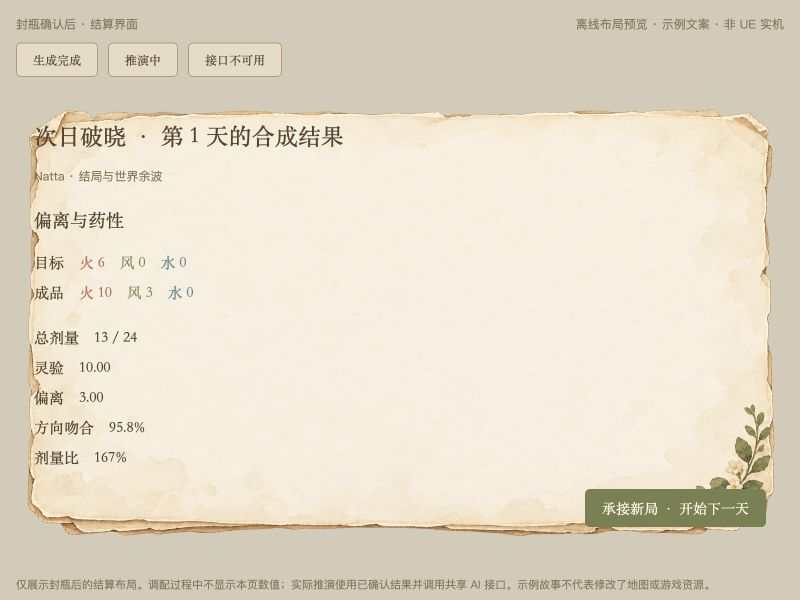
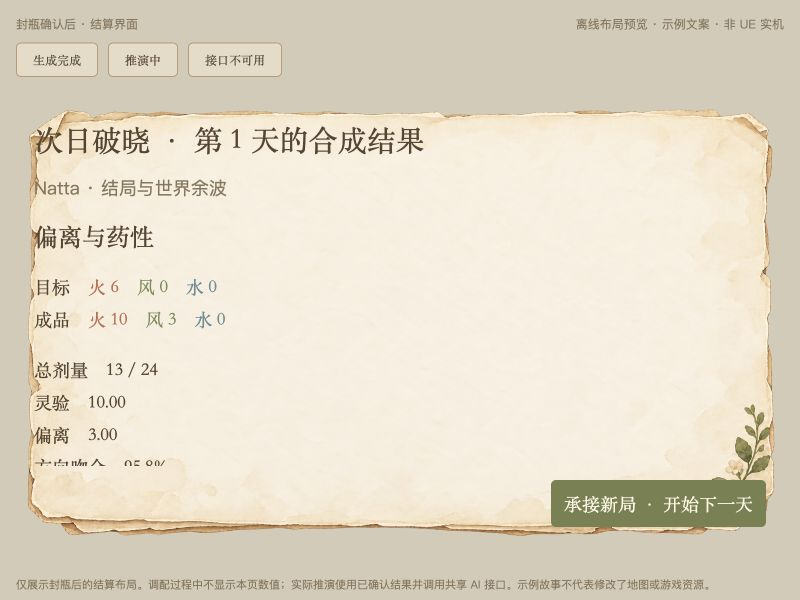
fix: increase alchemy body text and button font sizes

Changed region(s): [[0.0312, 0.21, 0.5312, 0.78], [0.6875, 0.78, 0.9375, 0.9], [0.25, 0.51, 0.2812, 0.54]]

diff --git a/Docs/Daily_Arcana_Brewing_Preview.html b/Docs/Daily_Arcana_Brewing_Preview.html
@@ -3,4 +3,7 @@
 
 main{width:100%;max-width:1180px}.paper.brew{width:100%;max-width:1180px;height:min(780px,calc(100dvh - 48px));min-height:0;padding:28px 32px}.brew .topline,.brew .tools,.brew .foot{flex-wrap:wrap}.brew .columns{grid-template-columns:minmax(0,32fr) minmax(0,35fr) minmax(0,33fr)}.brew .column{min-width:0}.brew .rail{flex-shrink:0}.brew .title{gap:12px;flex-wrap:wrap}.brew .foot{flex-shrink:0}.brew .title h1{font-size:22px}.brew .foot small{flex-basis:100%}.brew .columns{overflow:auto}.brew .column{overflow:visible}.brew .topline{flex-shrink:0}.brew .tools{flex-shrink:0}
 @media(max-width:931px){.paper.brew{padding:16px 18px}.brew .columns{display:block}.brew .column{border:0;padding:0;margin:0 0 18px}.brew .columns .out{order:-1}.brew .title h1{font-size:18px}}
-.brew-scroll{flex:1;min-height:0;overflow:auto}.brew .columns{flex:none;overflow:visible}.brew .foot{margin-top:10px}</style><main><header class="note"><span>背包 · 新增今日大牌栏</span><span>离线布局预览 · 非 UE 实机</span></header><section class="paper bag"><div class="title"><h1>背包</h1><small>B / Esc 关闭</small></div><div class="tabs"><button>元素小物</button><button class="active">今日大牌 · 第1天（3）</button></div><div class="bagbody"><div class="cards"><article class="major selected"><span class="roman">IV</span><b>皇帝</b><p>火 ×2</p><small>额度 1</small></article><article class="major"><span class="roman">XV</span><b>恶魔</b><p>下一项取逆</p><small>额度 1</small></article><article class="major"><span class="roman">XVII</span><b>星</b><p>风 ×2</p><small>额度 1</small></article></div><div class="detail"><h2>IV · 皇帝</h2><div class="muted">今日大牌 · 第1天<br>额度开销：1</div><p>火轴 ×2，逆运算时为 ÷2。</p><p class="muted">只在今日可用。夜晚放入合成台，按排列顺序改变药性。</p></div></div><small>拿起小屋药瓶，每瓶每天可抽取一张大牌。抽牌不经过 AI。</small></section><div class="legend">夜间合成台 · 素材、大牌、调配顺序、委托与结果 · 不显示三维坐标轴</div><section class="paper brew"><div class="title"><h1>夜间合成台 · 第1天</h1><span class="badge">今晚额度　4 / 5</span></div><div class="brew-scroll"><div class="muted">元素小物相加 · 大牌按顺序变换药性 · 副锅独立调配</div><div class="topline"><button class="primary">Natta · 铁匠</button><button>Fawnia · 传信人</button><button>森林女巫 · 小说家</button></div><div class="rail"><div class="slot"><small>01 · 元素小物</small><strong>炉火纽扣 · 火5</strong><small>投入火元素 5 点 · 免费</small></div><div class="slot selected"><small>02 · 今日大牌</small><strong>IV · 皇帝</strong><small>火 ×2 · 额度 1</small></div><div class="slot"><small>03 · 元素小物</small><strong>没有舌头的铜铃 · 风3</strong><small>投入风元素 3 点 · 免费</small></div></div><div class="tools"><button>← 前移</button><button>后移 →</button><button>移除所选</button><button>清空</button></div><div class="columns"><section class="column"><h2>元素小物 · 来自背包</h2><button class="choice">炉火纽扣 · 火5<small>黄铜边缘始终温热 · 额度0</small></button><button class="choice">没有舌头的铜铃 · 风3<small>风经过时会响起铃音 · 额度0</small></button><button class="choice">装着小雨的瓶子 · 水6<small>瓶壁上滑过刚落下的雨 · 额度0</small></button></section><section class="column"><h2>今日大牌 · 来自药瓶</h2><button class="choice">IV · 皇帝　额度1<small>火轴 ×2，逆为 ÷2</small></button><button class="choice">XV · 恶魔　额度1<small>紧邻的下一项取逆运算</small></button><button class="choice">XVII · 星　额度1<small>风轴 ×2，逆为 ÷2</small></button><div class="muted">下方保留原型的四张通用修饰牌</div></section><section class="column out"><h2>今晚的委托</h2><p>“我要的东西能把那种冷石头喂熟。就要火。别的什么都不要。”</p><p class="muted">目标：火6 · 风0 · 水0<br>调配槽位：3</p><p class="muted">确认封瓶后，另页显示偏离结果与次日推演。</p></section></div></div><footer class="foot"><small>放入、移除和调序不扣料；封瓶会另做一次确认。</small><button>收起 · Esc</button><button class="primary">封瓶交付</button></footer></section><p class="caption">截图展示两个界面的示例状态，人物、卡牌和数值仅供排版查看，不是游戏存档或运行验收。实际界面由 Slate 实现，均会按可用窗口尺寸缩小。<br>大牌保留卡牌形态；牌面插画尚未加入。夜间面板由与坩埚交互进入，本批未修改天空光照或新增真实时间计时。</p></main><script>for(const p of document.querySelectorAll('.paper.bag')){let h=document.createElement('div');h.className='scale';h.style.maxWidth=(p.classList.contains('bag')?940:1180)+'px';p.before(h);h.append(p)}function fit(){for(const h of document.querySelectorAll('.scale')){const p=h.firstChild,w=p.classList.contains('bag')?940:1180,d=p.classList.contains('bag')?480:780,s=Math.min(1,h.clientWidth/w);p.style.transform='scale('+s+')';h.style.height=d*s+'px'}}new ResizeObserver(fit).observe(document.querySelector('main'));addEventListener('resize',fit);fit()</script></html>
+.brew-scroll{flex:1;min-height:0;overflow:auto}.brew .columns{flex:none;overflow:visible}.brew .foot{margin-top:10px}
+.brew .title h1{font-size:27px}.brew h2{font-size:24px}.brew button{font-size:18px}.brew .choice,.brew .out p{font-size:18px}.brew .muted,.brew small,.brew .choice small,.brew .slot small{font-size:18px}.brew .slot strong{font-size:20px}.brew .slot{overflow:auto}.brew .foot button{padding:10px 12px}.brew .badge{font-size:18px}.brew .slot{min-height:150px}.brew .rail{min-height:166px}
+@media(max-width:931px){.brew .title h1{font-size:22px}}
+</style><main><header class="note"><span>背包 · 新增今日大牌栏</span><span>离线布局预览 · 非 UE 实机</span></header><section class="paper bag"><div class="title"><h1>背包</h1><small>B / Esc 关闭</small></div><div class="tabs"><button>元素小物</button><button class="active">今日大牌 · 第1天（3）</button></div><div class="bagbody"><div class="cards"><article class="major selected"><span class="roman">IV</span><b>皇帝</b><p>火 ×2</p><small>额度 1</small></article><article class="major"><span class="roman">XV</span><b>恶魔</b><p>下一项取逆</p><small>额度 1</small></article><article class="major"><span class="roman">XVII</span><b>星</b><p>风 ×2</p><small>额度 1</small></article></div><div class="detail"><h2>IV · 皇帝</h2><div class="muted">今日大牌 · 第1天<br>额度开销：1</div><p>火轴 ×2，逆运算时为 ÷2。</p><p class="muted">只在今日可用。夜晚放入合成台，按排列顺序改变药性。</p></div></div><small>拿起小屋药瓶，每瓶每天可抽取一张大牌。抽牌不经过 AI。</small></section><div class="legend">夜间合成台 · 素材、大牌、调配顺序、委托与结果 · 不显示三维坐标轴</div><section class="paper brew"><div class="title"><h1>夜间合成台 · 第1天</h1><span class="badge">今晚额度　4 / 5</span></div><div class="brew-scroll"><div class="muted">元素小物相加 · 大牌按顺序变换药性 · 副锅独立调配</div><div class="topline"><button class="primary">Natta · 铁匠</button><button>Fawnia · 传信人</button><button>森林女巫 · 小说家</button></div><div class="rail"><div class="slot"><small>01 · 元素小物</small><strong>炉火纽扣 · 火5</strong><small>投入火元素 5 点 · 免费</small></div><div class="slot selected"><small>02 · 今日大牌</small><strong>IV · 皇帝</strong><small>火 ×2 · 额度 1</small></div><div class="slot"><small>03 · 元素小物</small><strong>没有舌头的铜铃 · 风3</strong><small>投入风元素 3 点 · 免费</small></div></div><div class="tools"><button>← 前移</button><button>后移 →</button><button>移除所选</button><button>清空</button></div><div class="columns"><section class="column"><h2>元素小物 · 来自背包</h2><button class="choice">炉火纽扣 · 火5<small>黄铜边缘始终温热 · 额度0</small></button><button class="choice">没有舌头的铜铃 · 风3<small>风经过时会响起铃音 · 额度0</small></button><button class="choice">装着小雨的瓶子 · 水6<small>瓶壁上滑过刚落下的雨 · 额度0</small></button></section><section class="column"><h2>今日大牌 · 来自药瓶</h2><button class="choice">IV · 皇帝　额度1<small>火轴 ×2，逆为 ÷2</small></button><button class="choice">XV · 恶魔　额度1<small>紧邻的下一项取逆运算</small></button><button class="choice">XVII · 星　额度1<small>风轴 ×2，逆为 ÷2</small></button><div class="muted">下方保留原型的四张通用修饰牌</div></section><section class="column out"><h2>今晚的委托</h2><p>“我要的东西能把那种冷石头喂熟。就要火。别的什么都不要。”</p><p class="muted">目标：火6 · 风0 · 水0<br>调配槽位：3</p><p class="muted">确认封瓶后，另页显示偏离结果与次日推演。</p></section></div></div><footer class="foot"><small>放入、移除和调序不扣料；封瓶会另做一次确认。</small><button>收起 · Esc</button><button class="primary">封瓶交付</button></footer></section><p class="caption">截图展示两个界面的示例状态，人物、卡牌和数值仅供排版查看，不是游戏存档或运行验收。实际界面由 Slate 实现，均会按可用窗口尺寸缩小。<br>大牌保留卡牌形态；牌面插画尚未加入。夜间面板由与坩埚交互进入，本批未修改天空光照或新增真实时间计时。</p></main><script>for(const p of document.querySelectorAll('.paper.bag')){let h=document.createElement('div');h.className='scale';h.style.maxWidth=(p.classList.contains('bag')?940:1180)+'px';p.before(h);h.append(p)}function fit(){for(const h of document.querySelectorAll('.scale')){const p=h.firstChild,w=p.classList.contains('bag')?940:1180,d=p.classList.contains('bag')?480:780,s=Math.min(1,h.clientWidth/w);p.style.transform='scale('+s+')';h.style.height=d*s+'px'}}new ResizeObserver(fit).observe(document.querySelector('main'));addEventListener('resize',fit);fit()</script></html>

diff --git a/Docs/Brew_Result_Preview.html b/Docs/Brew_Result_Preview.html
@@ -6,4 +6,8 @@ body{padding:24px}.paper.result{width:1180px;height:740px;display:flex;flex-dire
 /* Flow layout: viewport size changes the frame, not the font scale. */
 body{padding:16px}main{width:100%;max-width:1180px}.note{margin:0 0 10px;gap:12px;flex-wrap:wrap}.stage{flex-wrap:wrap;margin-bottom:10px}.scale{overflow:visible;width:100%}.scale .paper.result{position:relative;transform:none!important;width:100%;max-width:1180px;height:min(740px,calc(100dvh - 124px));padding:40px 32px 44px;min-height:0}.result-body{grid-template-columns:minmax(0,34fr) minmax(0,66fr);min-height:0;margin-top:20px}.scores,.story{min-width:0}.result footer{flex-shrink:0;margin-top:14px}.result .title{flex-shrink:0}.result .title h1{overflow-wrap:anywhere}.caption{margin:12px 0}.story p{font-size:18px}.result h2{font-size:18px}button:disabled{opacity:.55}
 @media(max-width:931px){.scale .paper.result{padding:32px 18px 36px}.result-body{display:block;overflow:auto}.scores,.story{overflow:visible;padding:0}.story{margin-top:22px}.result h1{font-size:23px}.story p{font-size:18px}.result footer button{max-width:100%;white-space:normal}.result .title .muted{display:block}.scores p{font-size:15px}}
+
+/* Readable at the normal window size, without scaling down typography. */
+.result h1{font-size:29px}.result h2{font-size:24px}.scores p{font-size:18px;line-height:1.8}.story p{font-size:22px;line-height:1.8}.result .muted,.story .muted{font-size:18px;line-height:1.65}.verdict{font-size:24px}.result footer button{font-size:18px;padding:10px 12px}.scores,.story{scrollbar-gutter:stable}.result-body{margin-top:16px}
+@media(max-width:931px){.result h1{font-size:29px}.result h2{font-size:24px}.scores p{font-size:18px}.story p{font-size:22px}.result .muted,.story .muted{font-size:18px}.scores,.story{scrollbar-gutter:auto}}
 </style><main><header class="note"><span>封瓶确认后 · 结算界面</span><span>离线布局预览 · 示例文案 · 非 UE 实机</span></header><div class="stage"><button onclick="show('ready')">生成完成</button><button onclick="show('loading')">推演中</button><button onclick="show('fallback')">接口不可用</button></div><div class="scale" id="holder"><section class="paper result" id="page"><div class="title"><h1>次日破晓 · 第 1 天的合成结果</h1><span class="muted">Natta · 结局与世界余波</span></div><div class="result-body"><section class="scores"><h2>偏离与药性</h2><p>目标　<span class="fire">火 6</span>　<span class="wind">风 0</span>　<span class="water">水 0</span><br>成品　<span class="fire">火 10</span>　<span class="wind">风 3</span>　<span class="water">水 0</span></p><p>总剂量　13 / 24<br>灵验　10.00<br>偏离　3.00<br>方向吻合　95.8%<br>剂量比　167%</p><div class="verdict">过量 · 反噬</div><p class="muted">太浓，反噬（ρ &gt; 1.4）。</p></section><section class="story"><h2>推演 · 使用现场与森林余波</h2><div id="state" class="muted">本次成品的推演记录</div><div id="narrative"><p>Natta把药液倒进炉膛，原本发暗的石块很快烧红。她还没来得及翻动，热浪便从钳口冲出，最外层的矿壳裂成了碎片。她立刻截断风道，又用废料压住炉口；等火势稳下来，一炉待锻的铁坯已有两块变了形。她把那两块挑到一旁，重新检查剩下的材料，没有把它们混进交货的箱子。</p><p>破晓时，等在路口的运货人只带走了半箱成品。山口的修缮因此少了一批铁件，守哨的人不得不先把旧铰链重新装回门上。Natta留下了那只空药瓶，今晚得先把炉膛修好，才能补上欠下的活。</p></div></section></div><footer><button class="primary" id="next" onclick="document.getElementById('state').textContent='离线预览到此结束；游戏会在确认后换天。'">承接新局 · 开始下一天</button></footer></section></div><p class="caption">仅展示封瓶后的结算布局。调配过程中不显示本页数值；实际推演使用已确认结果并调用共享 AI 接口。示例故事不代表修改了地图或游戏资源。</p></main><script>const initial=document.getElementById('narrative').innerHTML;function show(s){document.getElementById('next').disabled=s==='loading';document.getElementById('state').textContent=s==='ready'?'本次成品的推演记录':s==='loading'?'正在依据本次成品推演……':'推演暂不可用 · 以下为本地结算记录';document.getElementById('narrative').innerHTML=s==='ready'?initial:s==='loading'?'<p>瓶口的封蜡渐渐冷却。林间尚未传回消息。愿望能否实现，取决于这一锅里真正留下的药性。</p>':'<p>【物理结算记录】评级为【过量 · 反噬】，灵验度 10.00，偏离 3.00，剂量比 167%。太浓，反噬。</p><p>客人的身影消失在夜色深处。次日晨曦升起时，森林里的暗流依旧无声蔓延。</p>'}</script></html>

diff --git a/Source/demo3_UE58/ForestAlchemyUI.cpp b/Source/demo3_UE58/ForestAlchemyUI.cpp
@@ -11,8 +11,8 @@
 #include "InputCoreTypes.h"
 namespace BrewUI
 {
- TSharedRef<STextBlock> Text(const FString& Value,int32 Size=12){return SNew(STextBlock).Text(FText::FromString(Value)).Font(ForestTheme::Font(Size)).ColorAndOpacity(ForestTheme::Ink).AutoWrapText(true);}
- TSharedRef<SWidget> Button(const FString& Label,FOnClicked Click,bool Primary=false){return SNew(SButton).ButtonStyle(Primary?&ForestTheme::PrimaryButton():&ForestTheme::SecondaryButton()).ContentPadding(FMargin(12,7)).OnClicked(Click)[SNew(STextBlock).Text(FText::FromString(Label)).Font(ForestTheme::Font(11)).ColorAndOpacity(Primary?ForestTheme::OnMoss:ForestTheme::Ink).AutoWrapText(true)];}
+ TSharedRef<STextBlock> Text(const FString& Value,int32 Size=12){return SNew(STextBlock).Text(FText::FromString(Value)).Font(ForestTheme::Font(FMath::Max(16,Size+4))).ColorAndOpacity(ForestTheme::Ink).AutoWrapText(true);}
+ TSharedRef<SWidget> Button(const FString& Label,FOnClicked Click,bool Primary=false){return SNew(SButton).ButtonStyle(Primary?&ForestTheme::PrimaryButton():&ForestTheme::SecondaryButton()).ContentPadding(FMargin(12,10)).OnClicked(Click)[SNew(STextBlock).Text(FText::FromString(Label)).Font(ForestTheme::Font(16)).ColorAndOpacity(Primary?ForestTheme::OnMoss:ForestTheme::Ink).AutoWrapText(true)];}
 }
 TSharedRef<SWidget> UForestArcanaNotice::RebuildWidget()
 {

diff --git a/Docs/Brew_Result_2026-10-27.md b/Docs/Brew_Result_2026-10-27.md
@@ -54,3 +54,11 @@ Docs/Brew_Result_Preview.html及.jpg为新结算离线预览；Daily_Arcana_Brew
 离线HTML同步取消合成/结算整页缩放。结算预览在800×600、1280×360、360×640、1280×720下均实测：继续按钮在视口内、页面无横向越界；800宽采用纵向滚动。截图Brew_Result_Preview.jpg更新，新增Brew_Result_Adaptive_800.jpg。预览有演示控件额外占用高度，与实际游戏可用区域不同，不替代Slate运行验收。
 
 本次Mac UE5.8 Development Editor UHT、源码编译、链接成功；完整工程与增量两份源码一致、差异检查通过。未启动UE/PIE，原生DPI、多屏、输入焦点/滚轮、极小窗口与运行中切换仍待实机验收。本次只修合成台和结算页，背包、NPC寻找/对话等界面没有一并重构。
+
+## 2026-10-27 字号修正（批次07）
+
+用户补充：正常窗口下文字本身也太小。此次直接调整合成台/结算页BrewUI文字样式，而非只修改缩放和布局。沿用ForestTheme字体与CJK回退；BrewUI文字请求字号提升4且最小16，主题再加2，实际Slate字体Size最小18。普通正文14→18、推演18→22、按钮13→18、主标题25→29；原先较小的说明统一至少18。按钮上下内边距7→10。字号与物理像素不同，最终仍受游戏DPI和设备显示影响。
+
+保留上批窗口自适应与滚动，不动采摘通知、背包、NPC寻找/对话或共享主题全局字号。长故事与成品理由可能需要更多滚动，不通过缩小文字塞满页面。离线合成/结算预览同步扩大文字，更新两张结算截图。
+
+本次UE5.8 Mac Development Editor源码编译和链接成功。离线结算1280×720、800×600、1280×360检查：故事22px、按钮18px，继续按钮在窗口内，无页面横向越界。HTML像素验证仅针对预览，不等同于Slate实机字体测量；未开UE/PIE，原生DPI和实际阅读效果待验收。

diff --git a/CHANGELOG.md b/CHANGELOG.md
@@ -2,6 +2,16 @@
 
 本文件记录增量仓库每次提交上传的内容。最新更新放在最前面；每次上传前必须把本条记录与对应文件一起提交。验证状态应区分“本次验证”“历史记录”与“未验证”。
 
+## 2026-10-27-07：放大合成台与结算页常规字号
+
+- **目的 / 基线 / 前置**：用户明确正常窗口下字也小；基于main `9eb3e29`，前置2026-10-27-05/06。
+- **修改**：Source/demo3_UE58/ForestAlchemyUI.cpp；Docs/Brew_Result_Preview.html、Brew_Result_Preview.jpg、Brew_Result_Adaptive_800.jpg、Daily_Arcana_Brewing_Preview.html、Brew_Result_2026-10-27.md；本记录。
+- **行为**：直接放大正常字号，Slate普通正文14→18、推演18→22、按钮13→18，小字至少18；按钮上下内边距增加。保留换行/滚动与固定操作区，不改共享主题及其他界面。
+- **依赖 / 应用**：合并一份源码并编译；沿用主题字体与前批布局，无配置/资产/存档迁移。
+- **验证**：本次Mac UE5.8源码编译与链接成功；源码同步/差异检查；离线结算三尺寸均保留故事22px/按钮18px、继续按钮在窗口内且无横向越界；更新截图。
+- **未验证**：未开UE/PIE；原生DPI与实际阅读仍需验收。字号不是物理像素，HTML截图不替代Slate实机。
+- **上传状态**：待上传，核对远程后补记。
+
 ## 2026-10-27-06：补记自适应修复上传结果
 
 - **目的 / 基线 / 前置**：补记2026-10-27-05；基于功能提交 `7a6e01a`。
